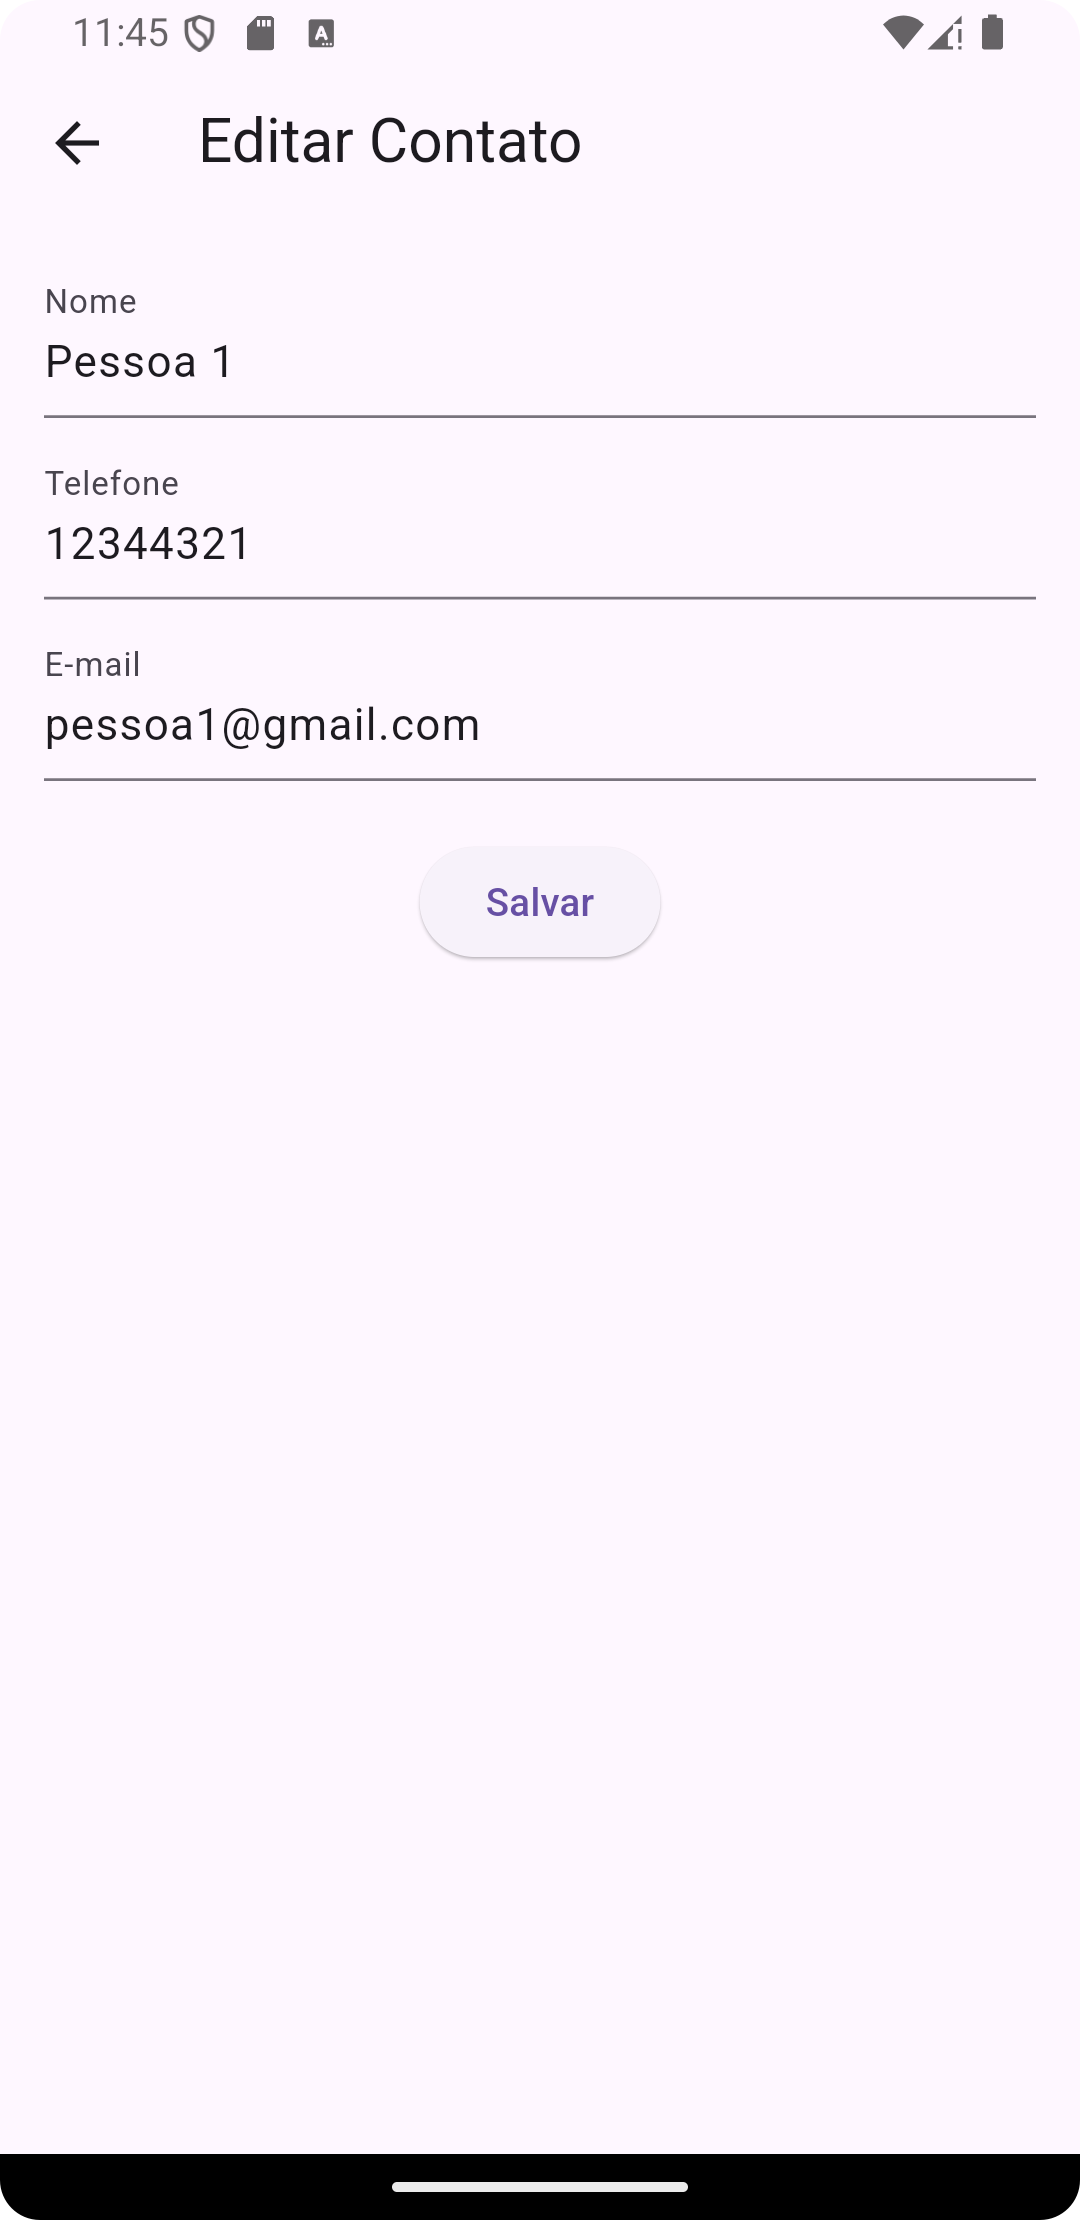
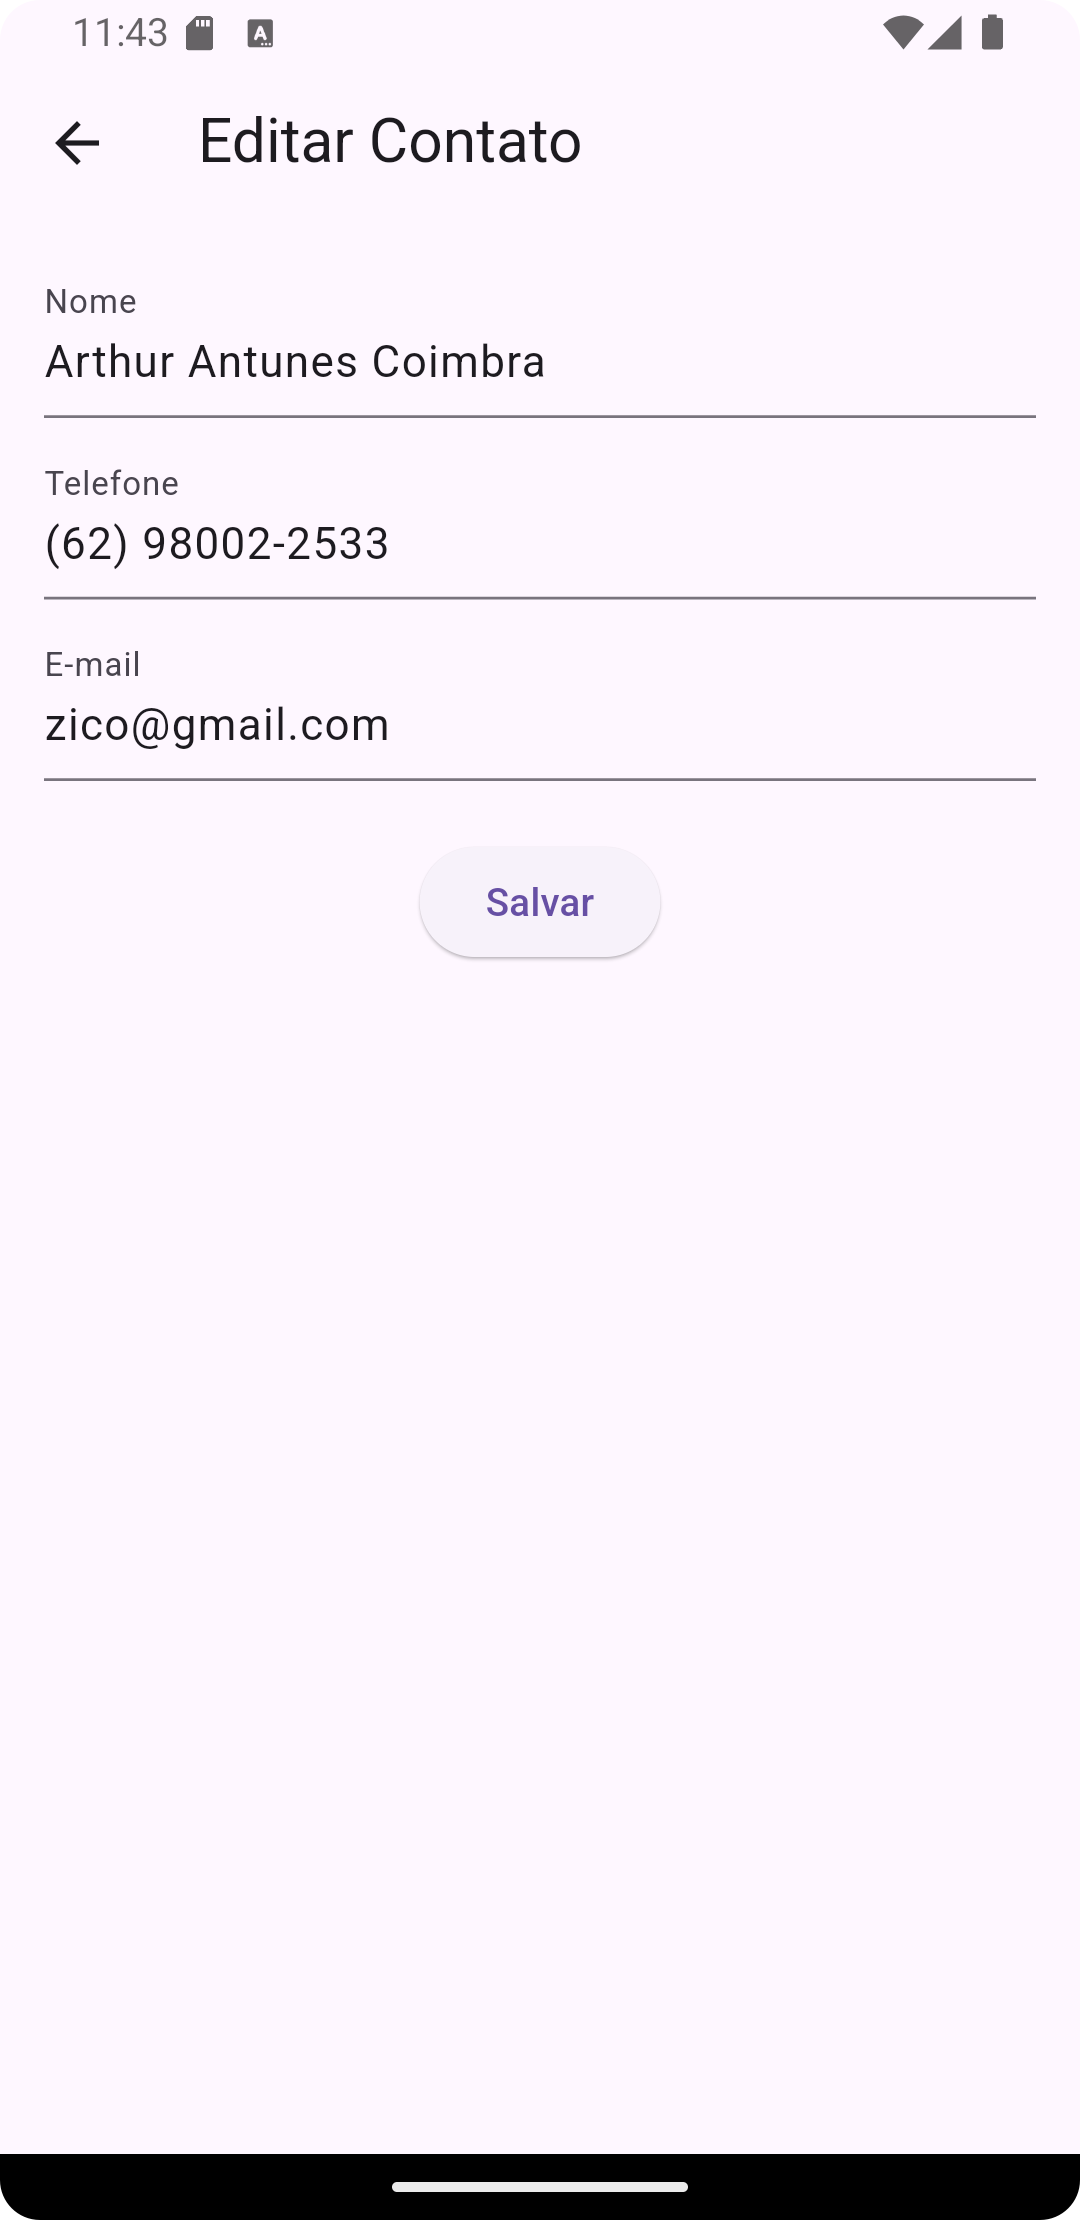
Atualizando ícones e realizando outras modificações

diff --git a/lib/telas/contact_list_screen.dart b/lib/telas/contact_list_screen.dart
@@ -1,9 +1,9 @@
 import 'package:flutter/material.dart';
-import 'package:flutter_piapp/telas/contact_details_screen.dart';
-import 'package:flutter_piapp/telas/add_contact_screen.dart';
-import 'package:flutter_piapp/telas/edit_contact_screen.dart';
+import 'package:lista_puc_go/telas/contact_details_screen.dart';
+import 'package:lista_puc_go/telas/add_contact_screen.dart';
+import 'package:lista_puc_go/telas/edit_contact_screen.dart';
 import 'package:flutter_svg/flutter_svg.dart';
-import 'package:flutter_piapp/db/database_manager.dart';
+import 'package:lista_puc_go/db/database_manager.dart';
 
 class TelaInicial extends StatefulWidget {
   const TelaInicial({super.key});
@@ -16,7 +16,7 @@ class _TelaInicialState extends State<TelaInicial> {
   List<Map<String, String>> _usuarios = []; // Lista de contatos carregados do banco
 
   @override
-  void initState() { // Inicializa o estado do widget ao ser carregado
+  void initState() {
     super.initState();
     _loadUsuarios(); // Carrega os contatos do banco de dados
   }
@@ -25,8 +25,7 @@ class _TelaInicialState extends State<TelaInicial> {
   void _loadUsuarios() async {
     final List<Map<String, dynamic>> usuariosDb = await DBHelper.getAllContacts(); // Busca contatos do banco
     setState(() {
-      _usuarios = usuariosDb
-          .map((usuario) => {
+      _usuarios = usuariosDb.map((usuario) => {
         'id': usuario['id'].toString(),
         'nome': usuario['nome'].toString(),
         'telefone': usuario['telefone'].toString(),
@@ -39,7 +38,22 @@ class _TelaInicialState extends State<TelaInicial> {
   void _adicionarUsuario(String nome, String telefone, String email) async {
     final id = await DBHelper.insert(nome, telefone, email); // Insere o contato no banco
     if (id != -1) {
-      _loadUsuarios();
+      _loadUsuarios(); // Atualiza a lista de contatos
+
+      // Exibe uma notificação para o usuário
+      if (mounted) {
+        ScaffoldMessenger.of(context).clearSnackBars(); // Limpa qualquer snack bar anterior
+        ScaffoldMessenger.of(context).showSnackBar( // Exibe o SnackBar
+          SnackBar(
+            content: Text(
+              'Contato $nome adicionado com sucesso!',
+              style: const TextStyle(color: Colors.white),
+            ),
+            backgroundColor: Colors.green, // Notificação na cor verde
+            duration: const Duration(seconds: 3),
+          ),
+        );
+      }
     }
   }
 
@@ -48,7 +62,22 @@ class _TelaInicialState extends State<TelaInicial> {
     final usuario = _usuarios[index];
     final id = int.parse(usuario['id']!);
     await DBHelper.deleteContact(id); // Remove o contato do banco
-    _loadUsuarios();
+    _loadUsuarios(); // Atualiza a lista de contatos
+
+    // Exibe uma notificação com fundo vermelho
+    if (mounted) {
+      ScaffoldMessenger.of(context).clearSnackBars();
+      ScaffoldMessenger.of(context).showSnackBar(
+        SnackBar(
+          content: Text(
+            'Contato ${usuario['nome']} removido com sucesso!',
+            style: const TextStyle(color: Colors.white),
+          ),
+          backgroundColor: Colors.red,
+          duration: const Duration(seconds: 3),
+        ),
+      );
+    }
   }
 
   // Função para editar um contato
@@ -56,20 +85,35 @@ class _TelaInicialState extends State<TelaInicial> {
     final usuario = _usuarios[index];
     final id = int.parse(usuario['id']!);
     await DBHelper.updateContact(id, nome, telefone, email); // Atualiza o contato no banco
-    _loadUsuarios();
+    _loadUsuarios(); // Atualiza a lista de contatos
+
+    // Exibe uma notificação com fundo verde
+    if (mounted) {
+      ScaffoldMessenger.of(context).clearSnackBars();
+      ScaffoldMessenger.of(context).showSnackBar(
+        SnackBar(
+          content: Text(
+            'Contato ${usuario['nome']} atualizado com sucesso!',
+            style: const TextStyle(color: Colors.white),
+          ),
+          backgroundColor: Colors.green,
+          duration: const Duration(seconds: 3),
+        ),
+      );
+    }
   }
 
   @override
-  Widget build(BuildContext context) { // Define a interface de usuário
+  Widget build(BuildContext context) {
     return Scaffold(
-      appBar: AppBar( // Barra superior da aplicação
+      appBar: AppBar(
         title: Row(
           children: [
-            SvgPicture.asset( // Exibindo a logo em SVG
+            SvgPicture.asset(
               'assets/images/puc-goias.svg',
-              height: 32, // Definindo a altura do logo
+              height: 32,
             ),
-            const SizedBox(width: 10), // Espaço entre o logo e o texto
+            const SizedBox(width: 10),
             const Text(
               'Lista de Pessoas',
               style: TextStyle(
@@ -81,102 +125,117 @@ class _TelaInicialState extends State<TelaInicial> {
         ),
         backgroundColor: Colors.blueAccent,
       ),
-      body: _usuarios.isEmpty // Verifica se há contatos
-          ? const Center(child: Text('Nenhuma pessoa adicionada.')) // Mensagem quando a lista está vazia
+      body: _usuarios.isEmpty
+          ? const Center(child: Text('Nenhuma pessoa adicionada.'))
           : ListView.builder(
-        itemCount: _usuarios.length, // Número de itens na lista
-        itemBuilder: (context, index) { // Constrói cada item
-          final usuario = _usuarios[index]; // Contato atual
-          return ListTile(
-            title: Text(usuario['nome']!), // Nome do contato
-            onTap: () async { // Ação ao tocar no item
-              if (!mounted) return; // Verifica se o widget está montado
+        itemCount: _usuarios.length,
+        itemBuilder: (context, index) {
+          // Ordena os usuários por nome (alfabética)
+          _usuarios.sort((a, b) => a['nome']!.compareTo(b['nome']!)); // Ordenação alfabética
 
-              // Mostra opções ao usuário
-              final action = await showDialog<String>(
-                context: context,
-                builder: (BuildContext context) {
-                  return AlertDialog(
-                    title: const Text('O que você gostaria de fazer?'), // Título do diálogo
-                    actions: <Widget>[
-                      TextButton( // Botão para visualizar detalhes
-                        onPressed: () {
-                          Navigator.pop(context, 'Detalhes'); // Fecha o diálogo com "Detalhes"
-                        },
-                        child: const Text('Visualizar Detalhes'),
+          final usuario = _usuarios[index];
+          final isEven = index % 2 == 0;
+
+          return Container(
+            color: isEven ? Colors.white : Colors.grey[100],
+            child: ListTile(
+              title: Text(usuario['nome']!),
+              onTap: () async {
+                if (!mounted) return;
+
+                final action = await showModalBottomSheet<String>(
+                  context: context,
+                  shape: const RoundedRectangleBorder(
+                    borderRadius: BorderRadius.vertical(top: Radius.circular(20)),
+                  ),
+                  builder: (context) {
+                    return Container(
+                      padding: const EdgeInsets.all(16),
+                      child: Column(
+                        mainAxisSize: MainAxisSize.min,
+                        children: [
+                          Text(
+                            'Contato: ${usuario['nome']}',
+                            style: const TextStyle(
+                              fontSize: 18,
+                              fontWeight: FontWeight.bold,
+                            ),
+                          ),
+                          const SizedBox(height: 10),
+                          ListTile(
+                            leading: const Icon(Icons.info_outline, color: Colors.blue),
+                            title: const Text('Visualizar Detalhes'),
+                            onTap: () => Navigator.pop(context, 'Detalhes'),
+                          ),
+                          const Divider(),
+                          ListTile(
+                            leading: const Icon(Icons.edit, color: Colors.orange),
+                            title: const Text('Editar'),
+                            onTap: () => Navigator.pop(context, 'Editar'),
+                          ),
+                          const Divider(),
+                          ListTile(
+                            leading: const Icon(Icons.delete, color: Colors.red),
+                            title: const Text('Excluir'),
+                            onTap: () => Navigator.pop(context, 'Excluir'),
+                          ),
+                        ],
                       ),
-                      TextButton( // Botão para editar
-                        onPressed: () {
-                          Navigator.pop(context, 'Editar'); // Fecha o diálogo com "Editar"
-                        },
-                        child: const Text('Editar'),
+                    );
+                  },
+                );
+
+                // Ações baseadas na escolha do usuário
+                if (action == 'Detalhes') {
+                  await Navigator.push(
+                    context,
+                    MaterialPageRoute(
+                      builder: (context) => DetalhesTela(
+                        nome: usuario['nome']!,
+                        telefone: usuario['telefone']!,
+                        email: usuario['email']!,
                       ),
-                      TextButton( // Botão para excluir
-                        onPressed: () {
-                          Navigator.pop(context, 'Excluir'); // Fecha o diálogo com "Excluir"
-                        },
-                        child: const Text('Excluir'),
-                      ),
-                    ],
+                    ),
                   );
-                },
-              );
-
-              if (action == 'Detalhes') { // Caso o usuário escolha "Detalhes"
-                await Navigator.push(
-                  context,
-                  MaterialPageRoute(
-                    builder: (context) => DetalhesTela(
-                      nome: usuario['nome']!,
-                      telefone: usuario['telefone']!,
-                      email: usuario['email']!,
+                } else if (action == 'Editar') {
+                  final editedUser = await Navigator.push(
+                    context,
+                    MaterialPageRoute(
+                      builder: (context) => EditarTela(
+                        nome: usuario['nome']!,
+                        telefone: usuario['telefone']!,
+                        email: usuario['email']!,
+                      ),
                     ),
-                  ),
-                );
-              } else if (action == 'Editar') { // Caso escolha "Editar"
-                final editedUser = await Navigator.push(
-                  context,
-                  MaterialPageRoute(
-                    builder: (context) => EditarTela(
-                      nome: usuario['nome']!,
-                      telefone: usuario['telefone']!,
-                      email: usuario['email']!,
-                    ),
-                  ),
-                );
+                  );
 
-                if (editedUser != null) { // Se houver alterações, atualiza o contato
-                  _editarUsuario(index, editedUser['nome'], editedUser['telefone'], editedUser['email']);
+                  if (editedUser != null) {
+                    _editarUsuario(index, editedUser['nome'], editedUser['telefone'], editedUser['email']);
+                  }
+                } else if (action == 'Excluir') {
+                  _removerUsuario(index);
                 }
-              } else if (action == 'Excluir') { // Caso escolha "Excluir"
-                _removerUsuario(index); // Remove o contato
-              }
-            },
+              },
+            ),
           );
         },
       ),
-      floatingActionButton: FloatingActionButton( // Botão flutuante para adicionar contatos
+      floatingActionButton: FloatingActionButton(
         onPressed: () async {
-          if (!mounted) return; // Verifica se o widget está montado
+          if (!mounted) return;
 
-          final novoUsuario = await Navigator.push( // Navega para a tela de adicionar contato
+          final novoUsuario = await Navigator.push(
             context,
             MaterialPageRoute(
               builder: (context) => const AdicionarTela(),
             ),
           );
 
-          if (!mounted) return;
-
-          if (novoUsuario != null) { // Caso receba um novo contato, adiciona
-            _adicionarUsuario(
-              novoUsuario['nome'],
-              novoUsuario['telefone'],
-              novoUsuario['email'],
-            );
+          if (novoUsuario != null) {
+            _adicionarUsuario(novoUsuario['nome'], novoUsuario['telefone'], novoUsuario['email']);
           }
         },
-        child: const Icon(Icons.add), // Ícone do botão
+        child: const Icon(Icons.add),
       ),
     );
   }

diff --git a/lib/telas/add_contact_screen.dart b/lib/telas/add_contact_screen.dart
@@ -1,4 +1,5 @@
 import 'package:flutter/material.dart';
+import 'package:mask_text_input_formatter/mask_text_input_formatter.dart';
 
 class AdicionarTela extends StatefulWidget {
   final String? nome;
@@ -16,6 +17,9 @@ class _AdicionarTelaState extends State<AdicionarTela> {
   final TextEditingController _telefoneController = TextEditingController();
   final TextEditingController _emailController = TextEditingController();
 
+  // Máscara para o campo de telefone (formato: (XX) XXXXX-XXXX)
+  var telefoneMask = MaskTextInputFormatter(mask: "(##) #####-####", filter: {"#": RegExp(r'[0-9]')});
+
   @override
   void initState() {
     super.initState();
@@ -26,16 +30,33 @@ class _AdicionarTelaState extends State<AdicionarTela> {
   }
 
   void _salvar() {
-    // Verifica se nome e telefone não estão vazios
+    // Verifica se nome, telefone e email não estão vazios
     if (_nomeController.text.isNotEmpty && _telefoneController.text.isNotEmpty && _emailController.text.isNotEmpty) {
+      // Salva as informações e retorna para a tela anterior
       Navigator.pop(context, {
         'nome': _nomeController.text,
         'telefone': _telefoneController.text,
         'email': _emailController.text,
       });
-    } else {
+
+      // Exibe uma notificação de sucesso
+      ScaffoldMessenger.of(context).clearSnackBars(); // Remove qualquer SnackBar anterior
       ScaffoldMessenger.of(context).showSnackBar(
-        const SnackBar(content: Text('Nome, telefone e e-mail são obrigatórios')),
+        const SnackBar(
+          content: Text('Contato salvo com sucesso!'),
+          backgroundColor: Colors.green, // Cor verde para sucesso
+          duration: Duration(seconds: 2),
+        ),
+      );
+    } else {
+      // Exibe uma notificação de erro caso algum campo não esteja preenchido
+      ScaffoldMessenger.of(context).clearSnackBars(); // Remove qualquer SnackBar anterior
+      ScaffoldMessenger.of(context).showSnackBar(
+        const SnackBar(
+          content: Text('Nome, telefone e e-mail são obrigatórios'),
+          backgroundColor: Colors.red, // Cor vermelha para erro
+          duration: Duration(seconds: 2),
+        ),
       );
     }
   }
@@ -55,10 +76,12 @@ class _AdicionarTelaState extends State<AdicionarTela> {
               decoration: const InputDecoration(labelText: 'Nome'),
             ),
             const SizedBox(height: 10),
+            // Campo de Telefone com máscara
             TextField(
               controller: _telefoneController,
               decoration: const InputDecoration(labelText: 'Telefone'),
               keyboardType: TextInputType.phone,
+              inputFormatters: [telefoneMask], // Aplica a máscara
             ),
             const SizedBox(height: 10),
             TextField(

diff --git a/test/widget_test.dart b/test/widget_test.dart
@@ -8,7 +8,7 @@
 import 'package:flutter/material.dart';
 import 'package:flutter_test/flutter_test.dart';
 
-import 'package:flutter_piapp/main.dart';
+import 'package:lista_puc_go/main.dart';
 
 void main() {
   testWidgets('Counter increments smoke test', (WidgetTester tester) async {

diff --git a/lib/main.dart b/lib/main.dart
@@ -1,5 +1,5 @@
 import 'package:flutter/material.dart';
-import 'package:flutter_piapp/telas/contact_list_screen.dart';
+import 'package:lista_puc_go/telas/contact_list_screen.dart';
 import 'db/database_manager.dart';
 
 void main() async {
